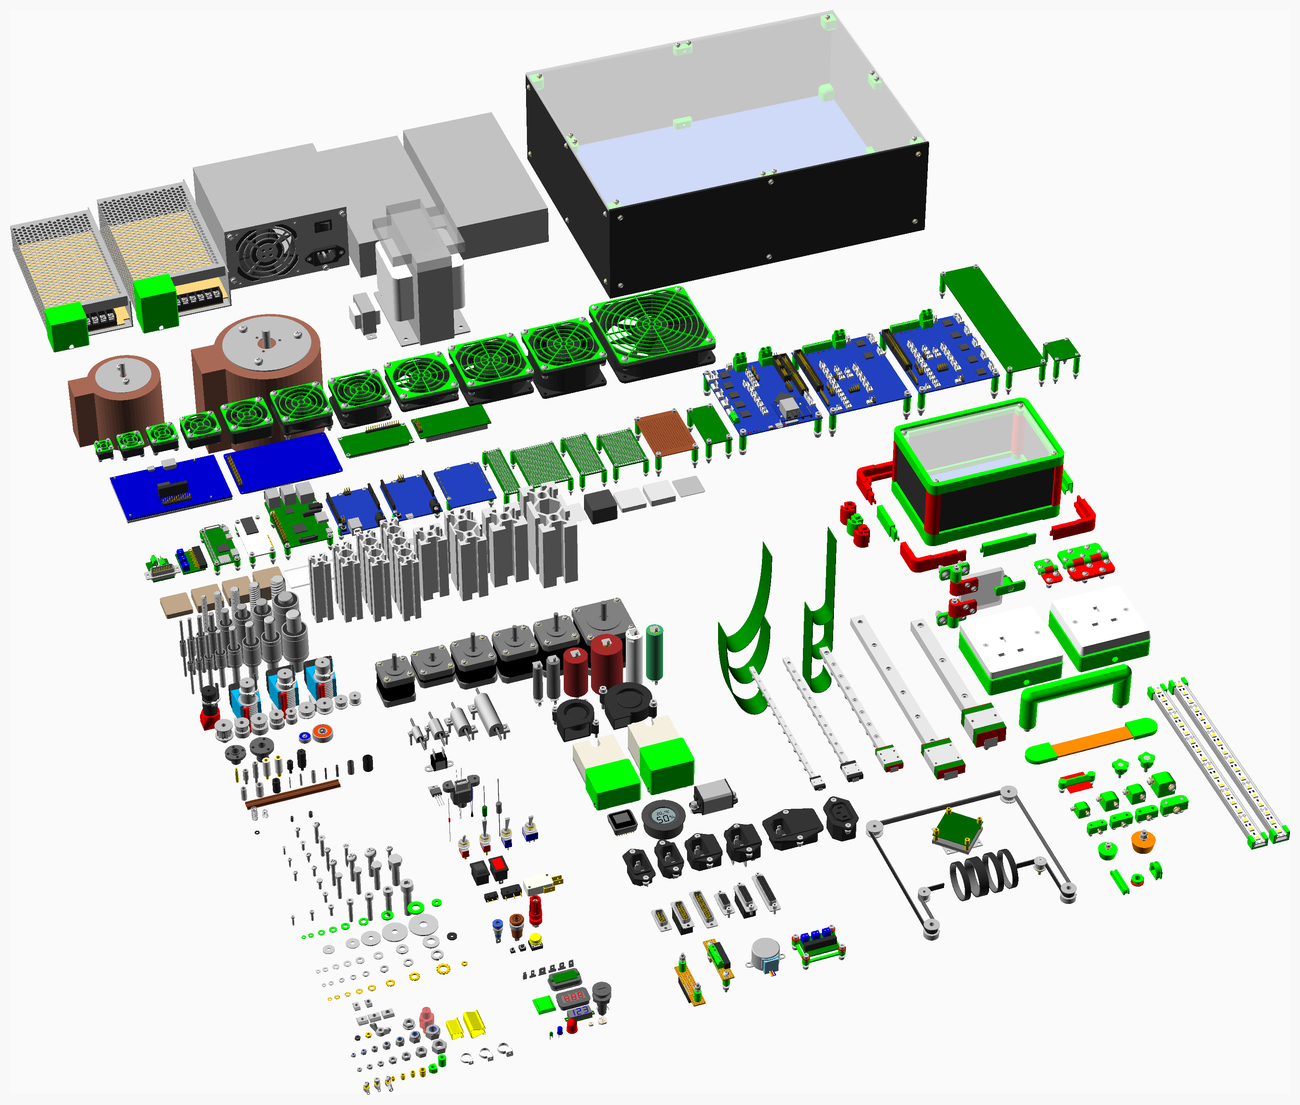
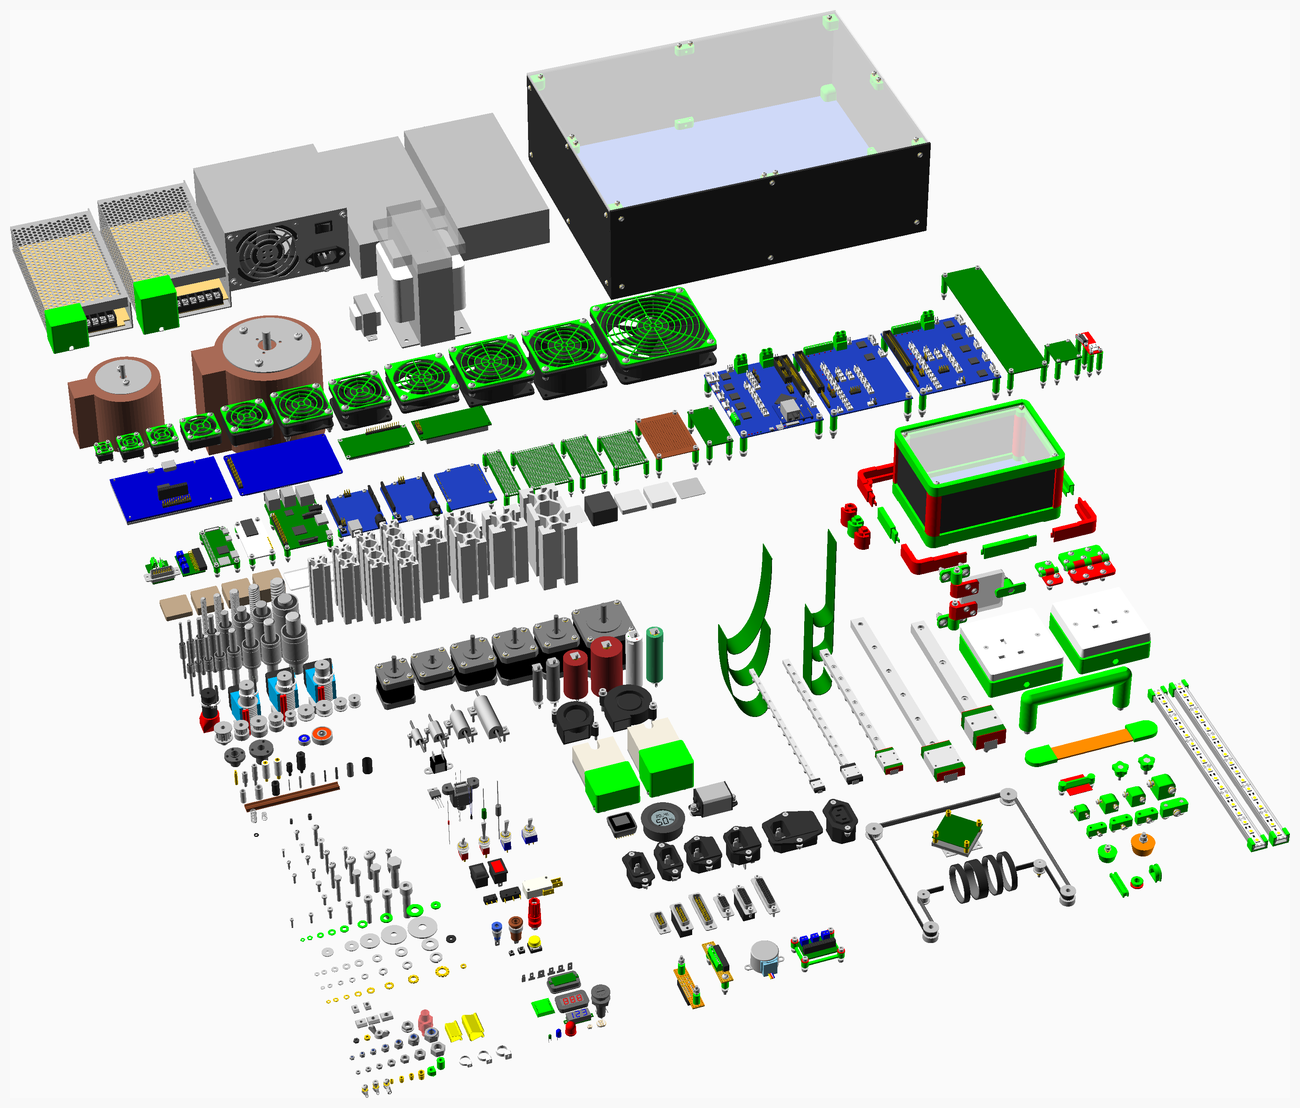
Updated images and readme

diff --git a/readme.md b/readme.md
@@ -1803,7 +1803,7 @@ PCBs and perfboard with optional components. The shape can be a rectangle with o
 |   1 | ```molex_254(2)``` |  Molex KK header 2 way |
 |   1 | ```molex_254(3)``` |  Molex KK header 3 way |
 |  16 | ```nut(M2_nut, nyloc = true)``` |  Nut M2 x 1.6mm nyloc |
-|  28 | ```nut(M2p5_nut, nyloc = true)``` |  Nut M2.5 x 2.2mm nyloc |
+|  32 | ```nut(M2p5_nut, nyloc = true)``` |  Nut M2.5 x 2.2mm nyloc |
 |  12 | ```nut(M3_nut, nyloc = true)``` |  Nut M3 x 2.4mm nyloc |
 |  12 | ```nut(M4_nut, nyloc = true)``` |  Nut M4 x 3.2mm nyloc |
 |   1 | ```pcb(PI_IO)``` |  PI_IO V2 |
@@ -1814,11 +1814,13 @@ PCBs and perfboard with optional components. The shape can be a rectangle with o
 |   1 | ```pcb(PERF74x51)``` |  Perfboard 74 x 51mm |
 |   1 | ```pcb(PERF80x20)``` |  Perfboard 80 x 20mm |
 |   1 | ```pin_socket(2p54header, 13, 2, right_angle = true)``` |  Pin socket 13 x 2 right_angle |
+|   1 | ```pcb(RAMPSEndstop)``` |  RAMPS Endstop Switch |
 |   1 | ```pcb(RPI3)``` |  Raspberry Pi 3 |
 |   1 | ```pcb(RPI0)``` |  Raspberry Pi Zero |
 |  16 | ```screw(M2_cap_screw, 25)``` |  Screw M2 cap x 25mm |
 |   4 | ```screw(M2p5_cap_screw, 16)``` |  Screw M2.5 cap x 16mm |
 |   8 | ```screw(M2p5_cap_screw, 20)``` |  Screw M2.5 cap x 20mm |
+|   4 | ```screw(M2p5_cap_screw, 35)``` |  Screw M2.5 cap x 35mm |
 |   8 | ```screw(M2p5_pan_screw, 20)``` |  Screw M2.5 pan x 20mm |
 |   4 | ```screw(M2p5_pan_screw, 25)``` |  Screw M2.5 pan x 25mm |
 |   4 | ```screw(M2p5_pan_screw, 35)``` |  Screw M2.5 pan x 35mm |
@@ -1830,7 +1832,7 @@ PCBs and perfboard with optional components. The shape can be a rectangle with o
 |   2 | ```green_terminal(gt_2p54, 4)``` |  Terminal block 4 way 0.1" |
 |   1 |  |  USB A to Mini B lead |
 |  16 | ```washer(M2_washer)``` |  Washer  M2 x 5mm x 0.3mm |
-|  28 | ```washer(M2p5_washer)``` |  Washer  M2.5 x 5.9mm x 0.5mm |
+|  32 | ```washer(M2p5_washer)``` |  Washer  M2.5 x 5.9mm x 0.5mm |
 |  12 | ```washer(M3_washer)``` |  Washer  M3 x 7mm x 0.5mm |
 |  12 | ```washer(M4_washer)``` |  Washer  M4 x 9mm x 0.8mm |
 |   1 | ```pcb(ZC_A0591)``` |  ZC-A0591 ULN2003 driver PCB |
@@ -1846,6 +1848,7 @@ PCBs and perfboard with optional components. The shape can be a rectangle with o
 |   4 | pcb_spacer25110_2.stl |
 |   4 | pcb_spacer25120_2.stl |
 |   4 | pcb_spacer25230.stl |
+|   4 | pcb_spacer25240.stl |
 |   4 | pcb_spacer2570.stl |
 |   4 | pcb_spacer2580.stl |
 |   4 | pcb_spacer2590.stl |
@@ -1935,6 +1938,7 @@ Pin headers and sockets, etc.
 |:--- |:--- |
 | ```box_header(type, cols = 1, rows = 1, smt = false, cutout = false)``` | Draw box header |
 | ```idc_transition(type, cols = 5, skip = [], cutout = false)``` | Draw IDC transition header |
+| ```jst_xh_header(type, pin_count, right_angle=false, colour, pin_colour)``` | Draw JST XH connector |
 | ```pin(type, length = undef)``` | Draw a header pin |
 | ```pin_header(type, cols = 1, rows = 1, smt = false, right_angle = false, cutout = false)``` | Draw pin header |
 | ```pin_socket(type, cols = 1, rows = 1, right_angle = false, height = 0, smt = false, cutout = false)``` | Draw pin socket |
